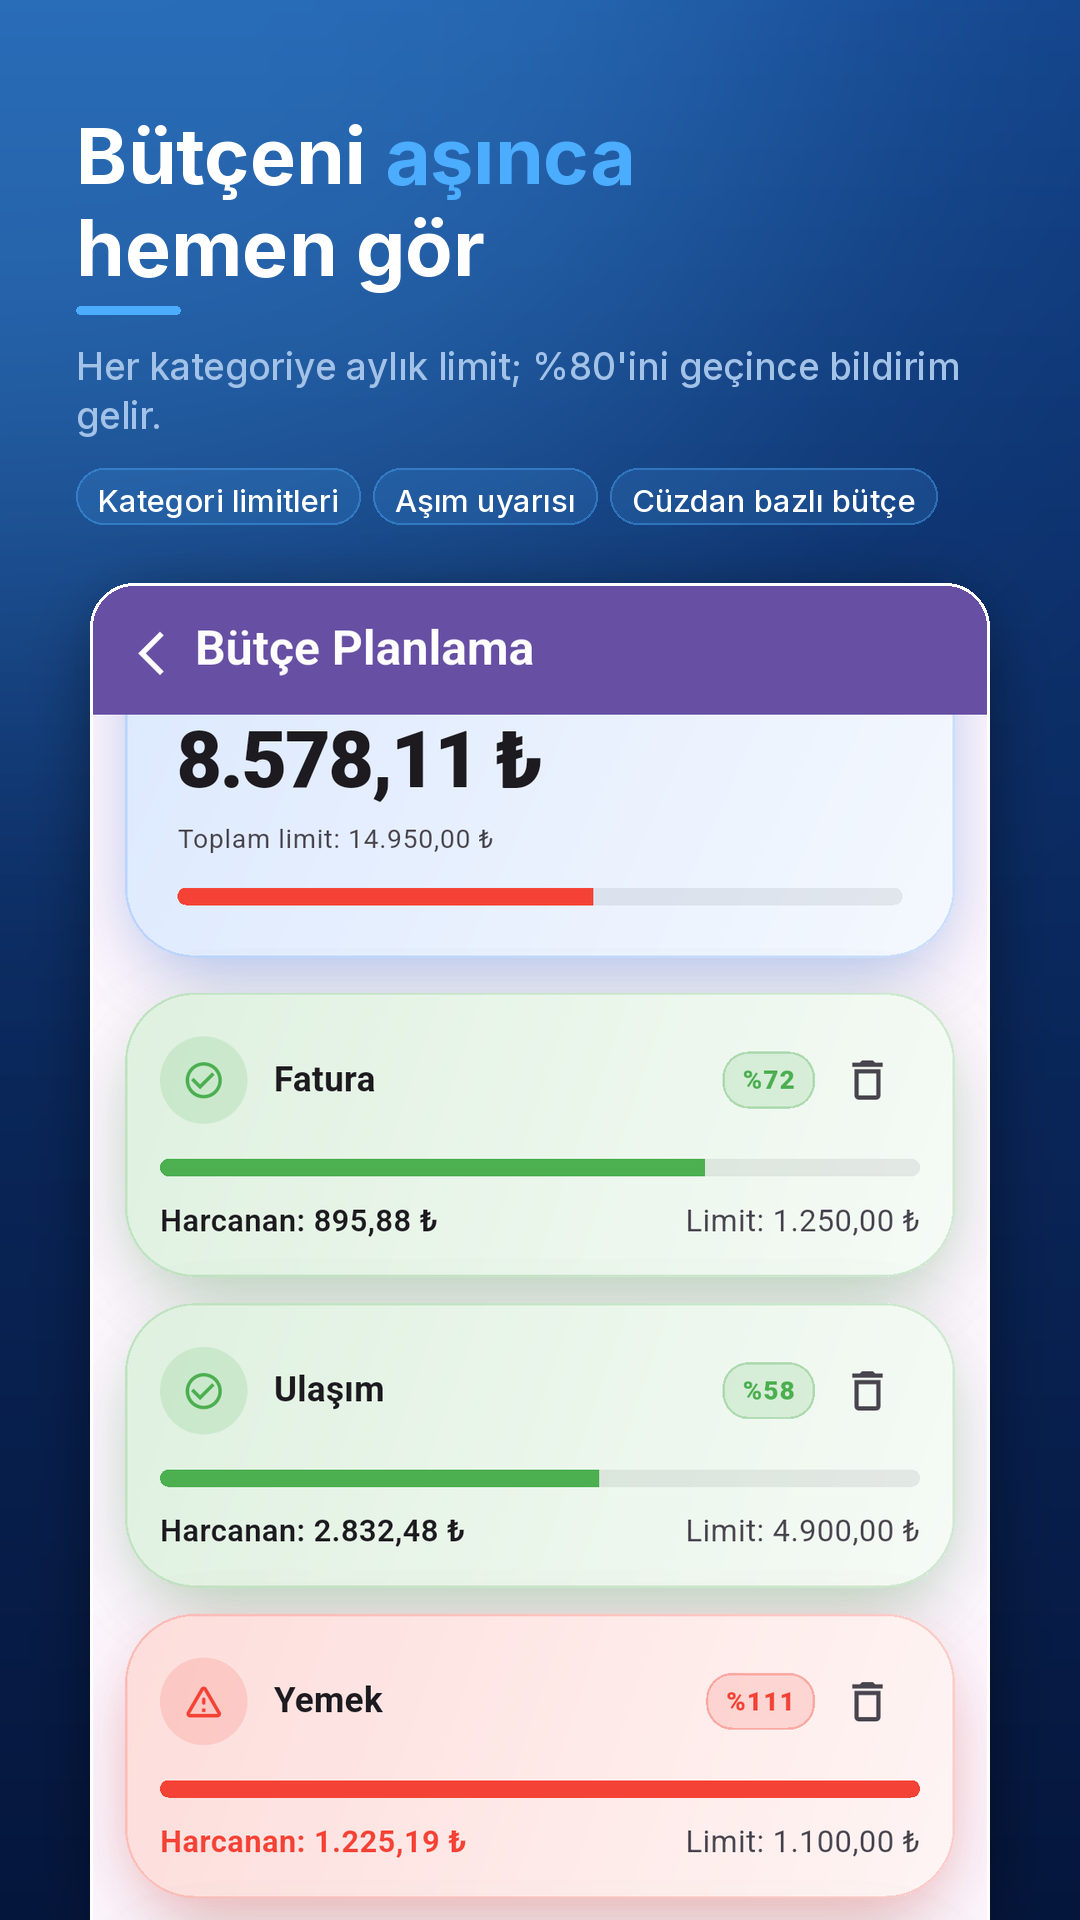
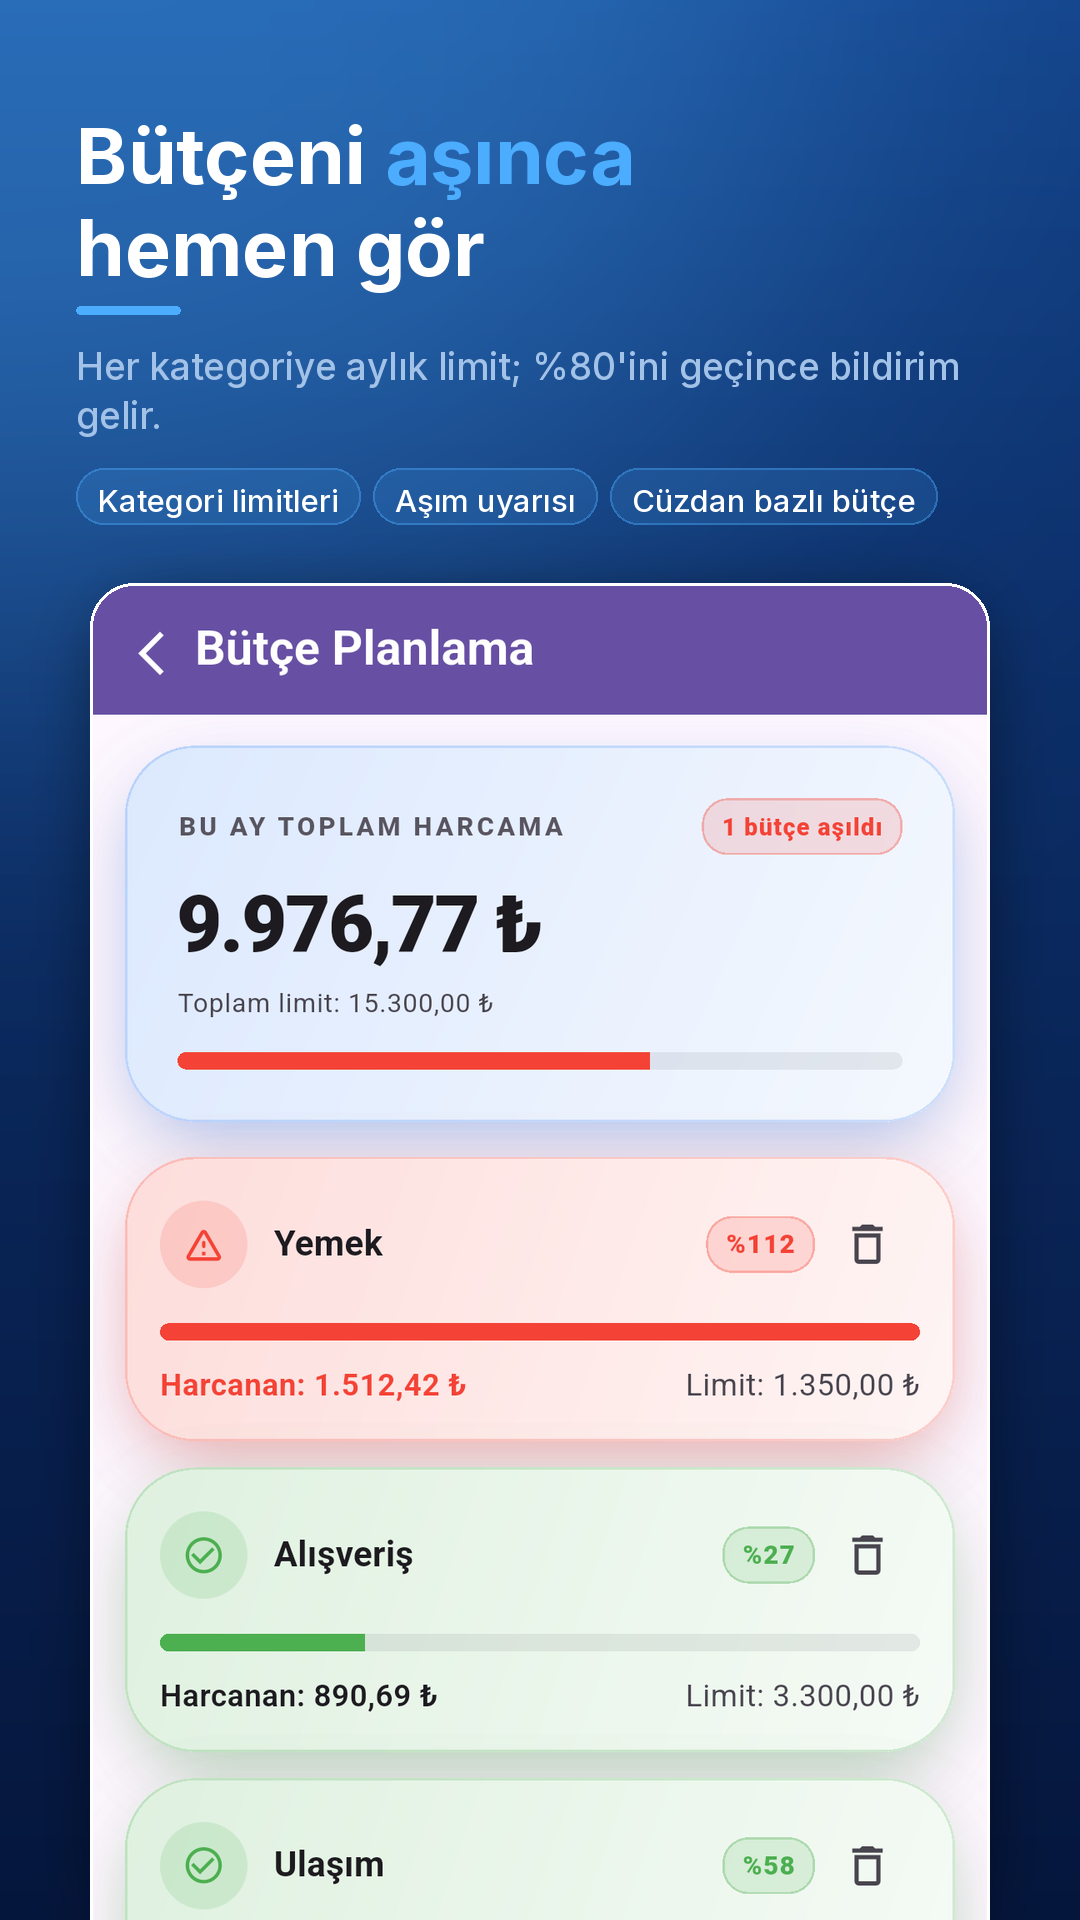
chore(vitrin): 8 kare `+5` öncesi yeniden çekildi — 1. karenin rakamı düzeltilmiş bir hataydı
Kural (`store-listing.md`): kare/çip denetimi kod değişince değil HER YAYIN
ÖNCESİ yapılır. Denetim bu turda da karşılığını verdi.

**1. kare artık üretilemeyen rakamlar gösteriyordu.** 6 Eyl karesinde ana ekran
özeti "↑103.750,00 ↓77.995,53 · net 25.754,47" diyor; aynı demo veriyle bugünkü
sürüm "↑99.750,00 ↓59.375,53 · net 40.374,47" ve altında "4 kuplaj hareketi
(transfer, borç, yatırım) sayılmadı" satırı var (`59c9d63`). Yani vitrindeki
rakam yalnız eski değil, DÜZELTİLMİŞ BİR HATANIN çıktısıydı: transferler gider
sayılıyordu. Kanıt karenin kendi içinde: eski defter karesindeki 77.995,53'e
karşılık eski RAPOR karesi zaten 59.375,53 diyordu.

**4. karedeki hedef kartları değişti** (`5270587`): kart artık kategori adını da
yazıyor, yatırım kartı alım tarihi + maliyet taşıyor.

**Kalan 5 kare de yeniden çekildi** — demo veri tarihe göreli üretiliyor ve üst
çubuktaki bakiye 6 Eyl'de 98.651,64 ₺, 9 Eyl'de 105.201,30 ₺. Karışık set,
carousel'de yan yana iki farklı bakiye demekti.

Kompozisyon: 4. kare "Hedeflerim" başlığından başlıyor, 5. karede AppBar
daraltılıp "1 bütçe aşıldı" rozeti kadrajın üstüne alındı, 8. karede bölüm
başlığı yerine doğrudan Drive kartı görünüyor.

Demo üretecinde tek düzeltme: hedef adı "Acil Fon" iken kategorisi de "Acil Fon"
olduğu için kart adı iki kez yazıyordu → "Yastık Altı". Üreteç tohumlu, aynı
tarihte aynı rakamları veriyor; başka kare etkilenmedi. Docstring'deki "şema v9"
da gerçekle (v10) hizalandı.
[…]

Changed region(s): [[0.0917, 0.375, 0.8861, 1.0], [0.6417, 0.4062, 0.8556, 0.4688], [0.8556, 0.375, 0.9167, 0.4062]]

diff --git a/tools/make_demo_backup.py b/tools/make_demo_backup.py
@@ -1,5 +1,5 @@
 #!/usr/bin/env python3
-"""Mağaza ekran görüntüleri için SAHTE veri yedeği üretir (şema v9).
+"""Mağaza ekran görüntüleri için SAHTE veri yedeği üretir (şema v10).
 
 Neden: Play listelemesinde gerçek kişisel finans verisi gösterilmemeli, ama
 3 işlemlik boş bir liste de "kimse kullanmıyor" izlenimi verir. Bu betik
@@ -414,7 +414,10 @@ def build():
         {"id": g_araba, "userId": USER, "walletId": w_main, "name": "Yeni Araba",
          "targetAmount": 60000.0, "category": "araba", "color": 0xFF3F51B5,
          "createdAt": iso(months[1] + timedelta(days=2), 10)},
-        {"id": g_acil, "userId": USER, "walletId": w_main, "name": "Acil Fon",
+        # Ad kategoriyle AYNI olmamalı: kart artık kategori adını da yazıyor
+        # (`GoalCategory.displayLabel`, `5270587`), "Acil Fon / Acil Fon"
+        # vitrin karesinde kopyala-yapıştır izlenimi veriyordu.
+        {"id": g_acil, "userId": USER, "walletId": w_main, "name": "Yastık Altı",
          "targetAmount": 12000.0, "category": "acil_fon", "color": 0xFF4CAF50,
          "createdAt": iso(months[2] + timedelta(days=1), 10)},
     ]

diff --git a/docs/RELEASE_GUIDE.md b/docs/RELEASE_GUIDE.md
@@ -29,7 +29,7 @@ etiketi `v1.0.0+4`.
 
 ---
 
-## 📍 Durum panosu — son ölçüm 8 Eylül 2026
+## 📍 Durum panosu — son ölçüm 9 Eylül 2026
 
 | Adım | Ne | Durum |
 |---|---|---|
@@ -42,7 +42,7 @@ etiketi `v1.0.0+4`.
 | 7 | Data Safety formu | ✅ Dolduruldu |
 | 8a | İçerik derecelendirme + hedef kitle | ✅ Dolduruldu |
 | 8b | App access + finansal özellikler | ✅ Dolduruldu |
-| 8c | **Mağaza girişi (metin + ikon + görseller)** | ✅ tr-TR + en-US girildi. Mağaza adı **`CuNehat`** olarak KALACAK — bilinçli karar (30 Ağu). Uygulama içi/görsel taraf `ÇuNehat`; fark biliniyor ve kabul edildi, bkz. aşağıdaki not |
+| 8c | **Mağaza girişi (metin + ikon + görseller)** | 🟡 tr-TR + en-US girildi, ama **8 ekran görüntüsünün TAMAMI 9 Eyl'de yeniden çekildi** (`docs/store/screenshots/`) — `+5` ile birlikte Console'a yeniden yüklenmeli, bkz. `store-listing.md` → *Set 9 Eylül 2026'da yeniden çekildi*. Mağaza adı **`CuNehat`** olarak KALACAK — bilinçli karar (30 Ağu). Uygulama içi/görsel taraf `ÇuNehat`; fark biliniyor ve kabul edildi, bkz. aşağıdaki not |
 | 8d | **Etiketler (3 tane)** | ✅ Mağaza ayarlarıyla birlikte gönderildi |
 | — | **Cihaz duman testi** | 🟡 **KISMEN (8 Eyl)** — emülatörde (API 36, 3 tuşlu gezinme) 8 madde ✔, ayrıca **`+4` → `+5` yerinde yükseltme provası geçti** (10 kutu açıldı, veri yerinde, v9 yedek migrasyonla yüklendi, `+5` v10 yazıyor). Kalan 8 madde imzaya/donanıma bağlı → yüklemeden sonra telefonda. Bkz. Adım 10 |
 | 9 | AAB yükle → Play'in SHA-1'i → 3. OAuth istemcisi | ✅ **TAMAM** — üç istemci de doğru; Play sürümünde Drive yedekleme cihazda doğrulandı (29 Ağu) |
@@ -50,8 +50,16 @@ etiketi `v1.0.0+4`.
 | — | **Monetizasyon kapısı** | ✅ **KRİTİK YOLDAN ÇIKTI (7 Eyl)** — v1.0 **ücretsiz ve reklamsız** yayınlanıyor: IAP yok, paywall yok, monetizasyon kodu yok. Pro 2. aşamada ve yalnız v1.0'da **olmayan** özelliklerden kurulacak. Ödeme/mevzuat tarafı da 2. aşamaya kaldı. Plan repo dışında: `../CuNehat-ozel/monetizasyon-plani.md` |
 | 12 | Production | ⬜ |
 
-**Kod tarafı sağlık (8 Eyl 2026, `+5` hazırlığı sonrası ölçüm):**
+**Kod tarafı sağlık (9 Eyl 2026, yükleme öncesi ölçüm):**
 `flutter test` **2413/2413**, `dart analyze` **0 sorun**.
+
+> **Suite bir gün sonra yine kendiliğinden kırılmıştı (2412/1).** 8 Eyl'de yeşil olan
+> `transaction_page_test.dart` → "ay değişince önceki günün vurgusu düşer" 9 Eyl'de
+> `Found 0 widgets with text "3"` ile düştü: gün şeridi açılışta BUGÜNE ortalanıyor ve
+> tembel çiziyor, ayın 3'ü çapa 9'a kayınca ağaçtan düştü. Aynı sınıfın 7 Eyl'deki
+> vakasında (bkz. aşağıdaki not) şeridin KENDİ testleri düzeltilmişti; bu test sayfanın
+> testiydi ve gözden kaçmıştı. Düzeltme aynı kalıp: şeridi önce BAŞA kaydır, sonra ara.
+> **Ders tekrar ediyor: bu panodaki test sayısı, o gün çalıştırılmadıysa bir iddia değildir.**
 
 > `+5` turunda eklenen 11 test, "geriye uyumluluk gerçekten çalışıyor mu"
 > sorusunu ölçüyor: `legacy_box_upgrade_test.dart` eski biçimli kaydı GERÇEK
@@ -720,6 +728,31 @@ yükleme değil — imza farklı olur, Adım 9'un doğruluğunu test edemezsin).
 > ile açıldı (migrasyon zinciri), `+5`'in ürettiği yedek **v10** ve cüzdanda
 > `categoryIds` anahtarı var.
 
+> **✅ İKİNCİ EMÜLATÖR TURU — 9 Eyl 2026, TEMİZ KURULUM.** Yukarıdaki tur
+> "eski kurulumun üzerine yükseltme"yi ölçüyordu; bu tur **sıfırdan kurulan
+> kullanıcıyı** ölçtü: `pm clear` → release APK (aynı `+5` kodu, HEAD'den
+> derlendi) → gizlilik onamı → bildirim izni → cüzdansız drawer → Ayarlar →
+> "Tam Yedeği Cihazdan Geri Yükle" → v10 demo yedeği. Sonuç: 3 cüzdan,
+> 20+58 işlem, 3 hedef, 2 borç, 6 bütçe, 7 şablon eksiksiz yüklendi;
+> bakiye `105.201,30 ₺` üreteçle birebir. Ardından **sekiz ekranın tamamı
+> elle gezildi** (defter, rapor, birikim, borç, bütçe, düzenli işlemler,
+> banka ekstresi, ayarlar) ve vitrin kareleri bu turda çekildi.
+>
+> Bu turda ayrıca ölçülenler:
+> * **Ekstre içe aktarma uçtan uca çalışıyor** (yalnız "dosya seçici" yolu):
+>   157 satırlık CSV okundu, sütunlar otomatik eşleşti, **157/157 kategorili**,
+>   "Aritmetik olarak doğrulandı · Bakiye zinciri 156/156" yeşil. Ekleme
+>   YAPILMADI (defter kirlenmesin diye geri çıkıldı).
+> * **Ana ekran ↔ rapor mutabakatı ikinci veriyle de tuttu:** Ağustos için ikisi
+>   de gider `59.375,53 ₺`, net `40.374,47 ₺`.
+> * **Edge-to-edge** düzeltmesi görünür durumda: düzenli işlemler listesinin son
+>   kartı artık gezinme çubuğunun üstünde bitiyor.
+> * Ayarlar'da **"Bildirim duman testi (yalnız debug)" kartı yok** — release
+>   derlemesinin doğru davranışı.
+>
+> ⚠ Bu tur da **yandan yüklenmiş** imzayla koştu; Play imzasına bağlı maddeler
+> ([ ] kalanlar) hâlâ telefonda tekrarlanacak.
+
 - [x] Açılış, splash, ikon ana ekranda doğru görünüyor
 - [x] **Edge-to-edge:** ölçülen üç yüzey temiz — güvenlik ekranının son kartı
       ("PIN'imi unutursam") çubuğun üstünde bitiyor, kategoriler listesinin son
@@ -749,7 +782,9 @@ yükleme değil — imza farklı olur, Adım 9'un doğruluğunu test edemezsin).
 - [ ] Drive yedekle → geri yükle turu: veri kaybı / yanlış bakiye yok *(aynı sebep)*
 - [ ] Ayarlar → Yedekleme → Yedeği Sil çalışıyor
 - [ ] Ayarlar → Gizlilik & Veri → Tüm Veriyi Sil → onay → sıfır durum
-- [ ] Banka ekstresi içe aktarma: dosya seçiciden **ve** paylaş menüsünden
+- [~] Banka ekstresi içe aktarma: **dosya seçici yolu 9 Eyl'de emülatörde ölçüldü**
+      (157/157 kategorili, bakiye zinciri 156/156); **paylaş menüsü yolu** hâlâ
+      ölçülmedi
 - [ ] Fiş fotoğrafı ekleme + OCR ön-doldurma *(emülatörde kamera yok)*
 - [ ] Uçak modunda: canlı fiyat ve kur ekranları **kilitlenmeden** hata veriyor
 - [ ] Cihazı yeniden başlat → planlı hatırlatmalar hâlâ geliyor

diff --git a/docs/store/store-listing.md b/docs/store/store-listing.md
@@ -471,7 +471,7 @@ Numbers
 
 ---
 
-## Ekran görüntüleri — ✅ ÜRETİLDİ (26 Ağu 2026)
+## Ekran görüntüleri — ✅ ÜRETİLDİ (son çekim 9 Eyl 2026)
 
 **8 görsel hazır:** `docs/store/screenshots/` (`01_…` – `08_…`). Ham cihaz
 çekimleri `tools/store_screenshots.py` ile 1080×1920 (tam 9:16) tuvale, marka
@@ -511,6 +511,46 @@ beyanla birebir uyuşmalı.
 | 6 | Borç/alacak | *Borcunu ve alacağını **unutma*** | Taksit ve vade · Kısmi ödeme · Gecikme faizi |
 | 7 | Düzenli işlemler | *Kira, maaş, abonelik — **kendiliğinden** gelsin* | Aylık şablonlar · Onay bekleyenler · Bildirim hatırlatması |
 | 8 | Gizlilik / yedek | *Verilerin **sende** kalır* | Google Drive yedeği · CSV dışa aktarım · Reklam yok |
+
+> **Set 9 Eylül 2026'da (`+5` yüklemesinden hemen önce) YENİDEN çekildi.**
+> Kural şu: kare/çip denetimi kod değişince değil **her yayın öncesi** yapılır.
+> Bu turda denetimin karşılığı çıktı — üç kare uygulamanın güncel hâlini
+> göstermiyordu:
+>
+> 1. **1. kare artık ÜRETİLEMEYEN rakamlar gösteriyordu.** 6 Eylül karesinde
+>    ana ekran özeti "↑103.750,00 ↓77.995,53 · net 25.754,47" diyordu; aynı
+>    veriyle bugünkü sürüm "↑99.750,00 ↓59.375,53 · net 40.374,47" ve altında
+>    "4 kuplaj hareketi (transfer, borç, yatırım) sayılmadı" satırı var
+>    (`59c9d63`). Yani vitrindeki rakam yalnız eski değil, **düzeltilmiş bir
+>    hatanın çıktısıydı**: transferler gider sayılıyordu. Ölçüm bunu kanıtlıyor
+>    — eski karedeki 59.375,53 rakamı zaten 3. karenin (rapor) gider toplamıydı;
+>    rapor doğruydu, defter değildi.
+> 2. **4. karedeki hedef kartları değişti** (`5270587`): kart artık kategori
+>    adını da yazıyor ("Ev / Ev Peşinatı"), yatırım kartı alım tarihi ve
+>    maliyeti taşıyor. Eski kare bu satırların hiçbirini göstermiyordu.
+> 3. **Geri kalan 5 kare de yeniden çekildi**, çünkü set içi tutarlılık
+>    kırılırdı: demo veri tarihe göreli üretiliyor ve üst çubuktaki bakiye
+>    6 Eylül'de 98.651,64 ₺, 9 Eylül'de 105.201,30 ₺. Karışık set, carousel'de
+>    yan yana iki farklı bakiye demek olurdu.
+>
+> Kompozisyon iyileştirmeleri: 4. kare artık "Hedeflerim" başlığıyla başlıyor
+> (eskisi kartın ortasından başlıyordu), 5. karede AppBar daraltılıp "1 bütçe
+> aşıldı" rozeti kadrajın en üstüne alındı, 8. karede bölüm başlığı yerine
+> doğrudan Drive kartı görünüyor.
+>
+> **Demo veride tek düzeltme:** hedef adı "Acil Fon" iken kategori adı da
+> "Acil Fon" olduğu için kart bunu iki kez yazıyordu → ad "Yastık Altı" oldu
+> (`tools/make_demo_backup.py`). Üreteç tohumlu (`Random(20260821)`), yani
+> yeniden üretmek aynı tarihte aynı rakamları veriyor — bu düzeltme başka
+> hiçbir kareyi etkilemedi.
+>
+> **Denetimin ikinci yarısı — 24 çipin tamamı koda karşı kontrol edildi;
+> hepsi karşılığını buluyor.** `+4`'ten beri hiçbir özellik silinmedi
+> (silinen tek dosya `local_auth_settings_page.dart`, yerine güvenlik ekranı
+> uygulama tarafına yeniden yazıldı). `+5` ile GELEN üç özellik — cüzdana göre
+> kategori görünürlüğü ve kategorilerin kendi sayfası, PIN kurtarma, kategori
+> adlarının dile göre kurulması — 8 karelik yuvada yer bulamadı; uzun
+> açıklamada da yoklar. Bkz. aşağıdaki "Uzun açıklamada eksik kalanlar".
 
 > **Set 6 Eylül 2026'da tamamen yeniden çekildi.** İki sebep vardı ve ikincisi
 > ilkinden ağır:
@@ -575,6 +615,36 @@ yerleşimde hiç gösterilmez. 30 saniyelik bir ekran kaydı bile
 `play-feature-graphic-1024x500.png` varlığını çalışır hale getirir.
 Grafiğin yazı bloğu `tools/make_feature_graphic.py` ile yeniden üretilebilir
 (işaret ve zemin korunur, yalnız kelime işareti yeniden çizilir).
+
+---
+
+## Uzun açıklamada eksik kalanlar (9 Eyl 2026 denetimi)
+
+Aşağıdaki üç madde uygulamada **var** ama yayımlanmış uzun açıklamada **yok**.
+Hiçbiri yanlış beyan değil (eksik anlatım yanıltıcı beyan sayılmaz), o yüzden
+`+5` yüklemesini bloke etmez — ama listelemeyi Console'da bir dahaki
+düzenlemende bu üç cümle girmeli. Metni buraya yazıyorum ki "neydi o" diye
+aranmasın; **girildiğinde bu bölüm silinip cümleler yukarıdaki bloğa taşınacak.**
+
+| Nerede | Eklenecek |
+|---|---|
+| `GELİR, GİDER VE KATEGORİLER` sonuna | *Kategorilerin yan menüde kendi sayfası var; her cüzdan yalnız kendi kategori kümesini gösterir.* |
+| `GÜVENLİK` sonuna | *PIN'ini unutursan veri gitmez: cihaz kilidinle açabilir ya da 24 saat gecikmeli sıfırlama isteyebilirsin.* |
+| `TÜRKÇE VE İNGİLİZCE` sonuna | *Hazır kategori adları uygulamanın diline göre kurulur.* |
+
+İngilizcesi:
+
+| Where | Add |
+|---|---|
+| end of `INCOME, EXPENSES AND CATEGORIES` | *Categories have their own page in the side menu, and each wallet shows only its own set.* |
+| end of `SECURITY` | *Forgetting your PIN no longer costs your data: unlock with your device lock, or request a 24-hour delayed reset.* |
+| end of `TURKISH AND ENGLISH` | *Built-in category names are created in your app language.* |
+
+**Neden karelere girmedi:** 8 telefon yuvasının tamamı dolu ve mevcut sekiz
+tema (defter, ekstre, rapor, birikim, bütçe, borç, düzenli, gizlilik) bu üç
+özellikten daha yüksek dönüşüm taşıyor. PIN kurtarma güven tarafına ait ve 8.
+karenin çipleri zaten dolu; tablet görselleri eklenirken (aşağıdaki liste)
+9./10. bir kare açılırsa ilk aday **güvenlik ekranı** olur.
 
 ---
 
